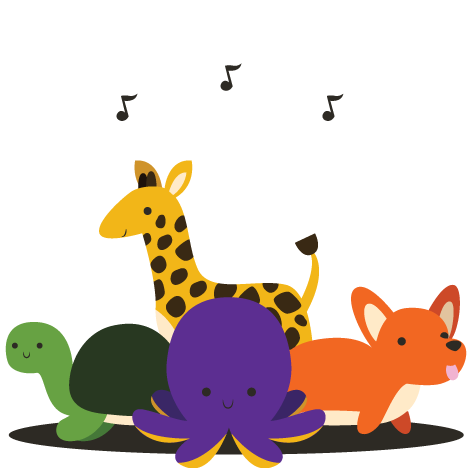
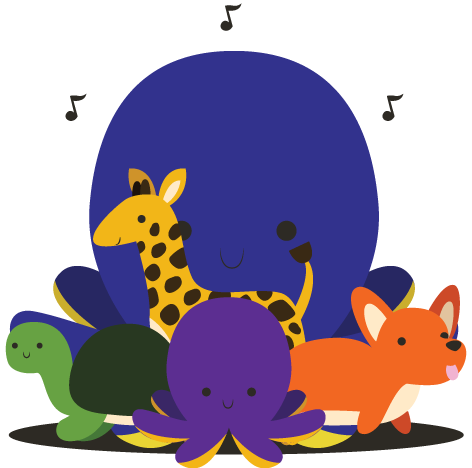
New sounds.

diff --git a/band.html b/band.html
@@ -1,11 +1,5 @@
 <html>
   <head>
-    <script id="mcjs">
-      ! function (c, h, i, m, p) {
-        m = c.createElement(h), p = c.getElementsByTagName(h)[0], m.async = 1, m.src = i, p.parentNode.insertBefore(m, p)
-      }(document, "script",
-        "https://chimpstatic.com/mcjs-connected/js/users/927b759f851c9cc98e035fc2c/17cb7363208b983b8b1fd27e7.js");
-    </script>
     <meta charset="utf-8">
     <link rel="stylesheet" href="https://cdnjs.cloudflare.com/ajax/libs/normalize/7.0.0/normalize.min.css" />
     <link rel="stylesheet" href="band.css" />
@@ -41,8 +35,57 @@
         </div>
       </div>
       <div class="animal">
-        <img class="small" src="images/octopus.png" />
-        <h2 class="animal-name">Octopus Ocarina</h2>
+        <img class="large" src="images/momma-octopus.png" />
+        <h2 class="animal-name">Momma Octo Ocarina</h2>
+        <div class="keys">
+          <button id="buttone" class="key-press">
+            Press <span>e</span>
+          </button>
+          <button id="buttonr" class="key-press">
+            Press <span>r</span>
+          </button>
+          <button id="buttont" class="key-press">
+            Press <span>t</span>
+          </button>
+          <button id="buttony" class="key-press">
+            Press <span>y</span>
+          </button>
+          <button id="buttonu" class="key-press">
+            Press <span>u</span>
+          </button>
+          <button id="buttoni" class="key-press">
+            Press <span>i</span>
+          </button>
+          <button id="buttono" class="key-press">
+            Press <span>o</span>
+          </button>
+          <button id="buttonp" class="key-press">
+            Press <span>p</span>
+          </button>
+        </div>
+      </div>
+      <div class="animal">
+        <img class="small" src="images/corgi.png" />
+        <h2 class="animal-name">Corgi Keyboard</h2>
+        <p>~*~Retired~*~</p>
+        <!-- <div class="keys">
+          <button id="buttonleft" class="key-press">
+            Press <span>←</span>
+          </button>
+          <button id="buttonup" class="key-press">
+            Press <span>↑</span>
+          </button>
+          <button id="buttonright" class="key-press">
+            Press <span>→</span>
+          </button>
+          <button id="buttondown" class="key-press">
+            Press <span>↓</span>
+          </button>
+        </div> -->
+      </div>
+      <div class="animal">
+        <img class="small" src="images/baby-octopus.png" />
+        <h2 class="animal-name">Baby Octo Ocarina</h2>
         <div class="keys">
           <button id="buttonw" class="key-press">
             Press <span>w</span>
@@ -71,24 +114,6 @@
         </div>
       </div>
       <div class="animal">
-        <img class="small" src="images/corgi.png" />
-        <h2 class="animal-name">Corgi Keyboard</h2>
-        <div class="keys">
-          <button id="buttonleft" class="key-press">
-            Press <span>←</span>
-          </button>
-          <button id="buttonup" class="key-press">
-            Press <span>↑</span>
-          </button>
-          <button id="buttonright" class="key-press">
-            Press <span>→</span>
-          </button>
-          <button id="buttondown" class="key-press">
-            Press <span>↓</span>
-          </button>
-        </div>
-      </div>
-      <div class="animal">
         <img class="small" src="./images/giraffe.png" />
         <h2 class="animal-name">Giraffe Guitar</h2>
         <div class="keys">
@@ -112,14 +137,22 @@
   <audio id="audioup" src="audio/audio-up.wav" />
   <audio id="audioright" src="audio/audio-right.wav" />
   <audio id="audiodown" src="audio/audio-down.wav" />
-  <audio id="audiow" src="audio/audio-w-1.wav" />
-  <audio id="audioa" src="audio/audio-a-1.wav" />
-  <audio id="audios" src="audio/audio-s-1.wav" />
-  <audio id="audiod" src="audio/audio-d-1.wav" />
-  <audio id="audiof" src="audio/audio-f-1.wav" />
-  <audio id="audiog" src="audio/audio-g-1.wav" />
-  <audio id="audioh" src="audio/audio-h-1.wav" />
-  <audio id="audioj" src="audio/audio-j-1.wav" />
+  <audio id="audiow" src="audio/audio-w.wav" />
+  <audio id="audioa" src="audio/audio-a.wav" />
+  <audio id="audios" src="audio/audio-s.wav" />
+  <audio id="audiod" src="audio/audio-d.wav" />
+  <audio id="audiof" src="audio/audio-f.wav" />
+  <audio id="audiog" src="audio/audio-g.wav" />
+  <audio id="audioh" src="audio/audio-h.wav" />
+  <audio id="audioj" src="audio/audio-j.wav" />
+  <audio id="audioe" src="audio/audio-e.wav" />
+  <audio id="audior" src="audio/audio-r.wav" />
+  <audio id="audiot" src="audio/audio-t.wav" />
+  <audio id="audioy" src="audio/audio-y.wav" />
+  <audio id="audiou" src="audio/audio-u.wav" />
+  <audio id="audioi" src="audio/audio-i.wav" />
+  <audio id="audioo" src="audio/audio-o.wav" />
+  <audio id="audiop" src="audio/audio-p.wav" />
   <audio id="audio1" src="audio/audio-1.wav" />
   <audio id="audio2" src="audio/audio-2.wav" />
   <audio id="audio3" src="audio/audio-3.wav" />

diff --git a/index.html b/index.html
@@ -12,40 +12,46 @@
     <link href="https://fonts.googleapis.com/css?family=Oxygen:300,400,700" rel="stylesheet">
   </head>
   <body>
-    <img src="images/ashley.png" />
-    <h1>Ashley Qian</h1>
-    <p>Software engineer by day, artist by night, kid at heart.</p>
-    <div class="link-catagories">
-      <div class="link-catagory">
-        <h2 class="catagory-title">💻 Work.</h2>
-        <div class="links">
-          <a href="https://diy.org/">diy.org</a>
-          <a href="https://jam.com/">jam.com</a>
+    <div class="window center">
+      <img src="images/ashley.png" />
+      <h1>Ashley Qian</h1>
+      <p>Software engineer by day, artist by night, kid at heart.</p>
+      <div class="link-catagories">
+        <div class="link-catagory">
+          <h2 class="catagory-title">💻 Work.</h2>
+          <div class="links">
+            <a href="https://diy.org/">diy.org</a>
+            <a href="https://jam.com/">jam.com</a>
+          </div>
         </div>
+        <div class="link-catagory">
+          <h2 class="catagory-title">🎨 Make.</h2>
+          <div class="links">
+            <a href="https://www.instagram.com/cranberryofdoom/">Instagram</a>
+            <a href="https://medium.com/@its_ashworks">Medium</a>
+            <a href="https://github.com/cranberryofdoom">Github</a>
+            <a href="https://twitter.com/its_ashworks">Twitter</a>
+            <a href="https://www.youtube.com/user/ashleyqian0">Youtube</a>
+          </div>
+        </div>
+        <div class="link-catagory">
+          <h2 class="catagory-title">✨ Play.</h2>
+          <div class="links">
+            <a href="band.html">Animal Band</a>
+            <a href="tutorials.html">Tutorials</a>
+          </div>
+        </div>
+        <!-- <div class="link-catagory">
+              <h2 class="catagory-title">🙌 Donate.</h2>
+              <div class="links">
+                <a href="shop.html">Art For Charity</a>
+              </div>
+            </div> -->
       </div>
-      <div class="link-catagory">
-        <h2 class="catagory-title">🎨 Make.</h2>
-        <div class="links">
-          <a href="https://www.instagram.com/cranberryofdoom/">Instagram</a>
-          <a href="https://medium.com/@its_ashworks">Medium</a>
-          <a href="https://github.com/cranberryofdoom">Github</a>
-          <a href="https://twitter.com/its_ashworks">Twitter</a>
-          <a href="https://www.youtube.com/user/ashleyqian0">Youtube</a>
-        </div>
-      </div>
-      <div class="link-catagory">
-        <h2 class="catagory-title">✨ Play.</h2>
-        <div class="links">
-          <a href="band.html">Animal Band</a>
-          <a href="tutorials.html">Tutorials</a>
-        </div>
-      </div>
-      <!-- <div class="link-catagory">
-        <h2 class="catagory-title">🙌 Donate.</h2>
-        <div class="links">
-          <a href="shop.html">Art For Charity</a>
-        </div>
-      </div> -->
+    </div>
+    <div class="window">
+      <h1>I make musical plushies</h1>
+      <p>They're cute little stuffed animals that play like musical instruments!</p>
     </div>
   </body>
 </html>

diff --git a/band.js b/band.js
@@ -30,38 +30,55 @@ var turtleKeys = [{
   key: 6,
   keyCode: 54,
 }];
-var octopusKeys = [{
+var babyOctopusKeys = [{
   key: 'w',
   keyCode: 87,
-  animal: 'octo',
 }, {
   key: 'a',
   keyCode: 65,
-  animal: 'octo',
 }, {
   key: 's',
   keyCode: 83,
-  animal: 'octo',
 }, {
   key: 'd',
   keyCode: 68,
-  animal: 'octo',
 }, {
   key: 'f',
   keyCode: 70,
-  animal: 'octo',
 }, {
   key: 'g',
   keyCode: 71,
-  animal: 'octo',
 }, {
   key: 'h',
   keyCode: 72,
-  animal: 'octo',
 }, {
   key: 'j',
   keyCode: 74,
-  animal: 'octo',
+}];
+var mommaOctopusKeys = [{
+  key: 'e',
+  keyCode: 69,
+}, {
+  key: 'r',
+  keyCode: 82,
+}, {
+  key: 't',
+  keyCode: 84,
+}, {
+  key: 'y',
+  keyCode: 89,
+}, {
+  key: 'u',
+  keyCode: 85,
+}, {
+  key: 'i',
+  keyCode: 73,
+}, {
+  key: 'o',
+  keyCode: 79,
+}, {
+  key: 'p',
+  keyCode: 80,
 }];
 var giraffeKeys = [{
   key: 'z',
@@ -76,7 +93,7 @@ var giraffeKeys = [{
   key: 'v',
   keyCode: 86,
 }];
-var allKeys = [].concat(corgiKeys, turtleKeys, octopusKeys, giraffeKeys);
+var allKeys = [].concat(corgiKeys, turtleKeys, babyOctopusKeys, mommaOctopusKeys, giraffeKeys);
 var keysDown = {};
 
 function playAudio(key) {
@@ -99,12 +116,12 @@ function resetAudio(key) {
 function eventKeyDown(event) {
   var keyCode = event.keyCode;
   allKeys.map(function(keyObject) {
+    if (event.repeat) {
+      return
+    }
     if (keyCode === keyObject.keyCode) {
-      if (!keysDown[keyCode]) {
-        keysDown[keyCode] = true;
-        playAudio(keyObject.key);
-        document.getElementById('button' + keyObject.key).classList.add('active');
-      }
+      playAudio(keyObject.key);
+      document.getElementById('button' + keyObject.key).classList.add('active');
     }
   });
 }
@@ -113,9 +130,6 @@ function eventKeyUp(event) {
   var keyCode = event.keyCode;
   allKeys.map(function(keyObject) {
     if (keyCode === keyObject.keyCode) {
-      if (keysDown[keyCode]) {
-        keysDown[keyCode] = false;
-      }
       document.getElementById('button' + keyObject.key).classList.remove('active');
     }
   });

diff --git a/main.css b/main.css
@@ -2,10 +2,20 @@ body {
   height: 100vh;
   display: flex;
   flex-direction: column;
-  align-items: center;
-  justify-content: center;
   font-family: 'Oxygen', sans-serif;
   color: #333;
+}
+
+.window {
+  height: 100vh;
+  display: flex;
+  flex-direction: column;
+  align-items: center;
+  flex-shrink: 0;
+}
+
+.window.center {
+  justify-content: center;
 }
 
 img {

diff --git a/band.css b/band.css
@@ -35,8 +35,13 @@ img {
 
 img.small {
   width: 120px;
-  margin-top: 0;
   margin-top: 12px;
+  margin-bottom: -12px;
+}
+
+img.large {
+  width: 150px;
+  margin-top: 0px;
   margin-bottom: -12px;
 }
 
@@ -59,7 +64,6 @@ p {
 .animal-plushies {
   display: flex;
   flex-direction: row;
-  max-width: 900px;
   text-align: center;
 }
 
